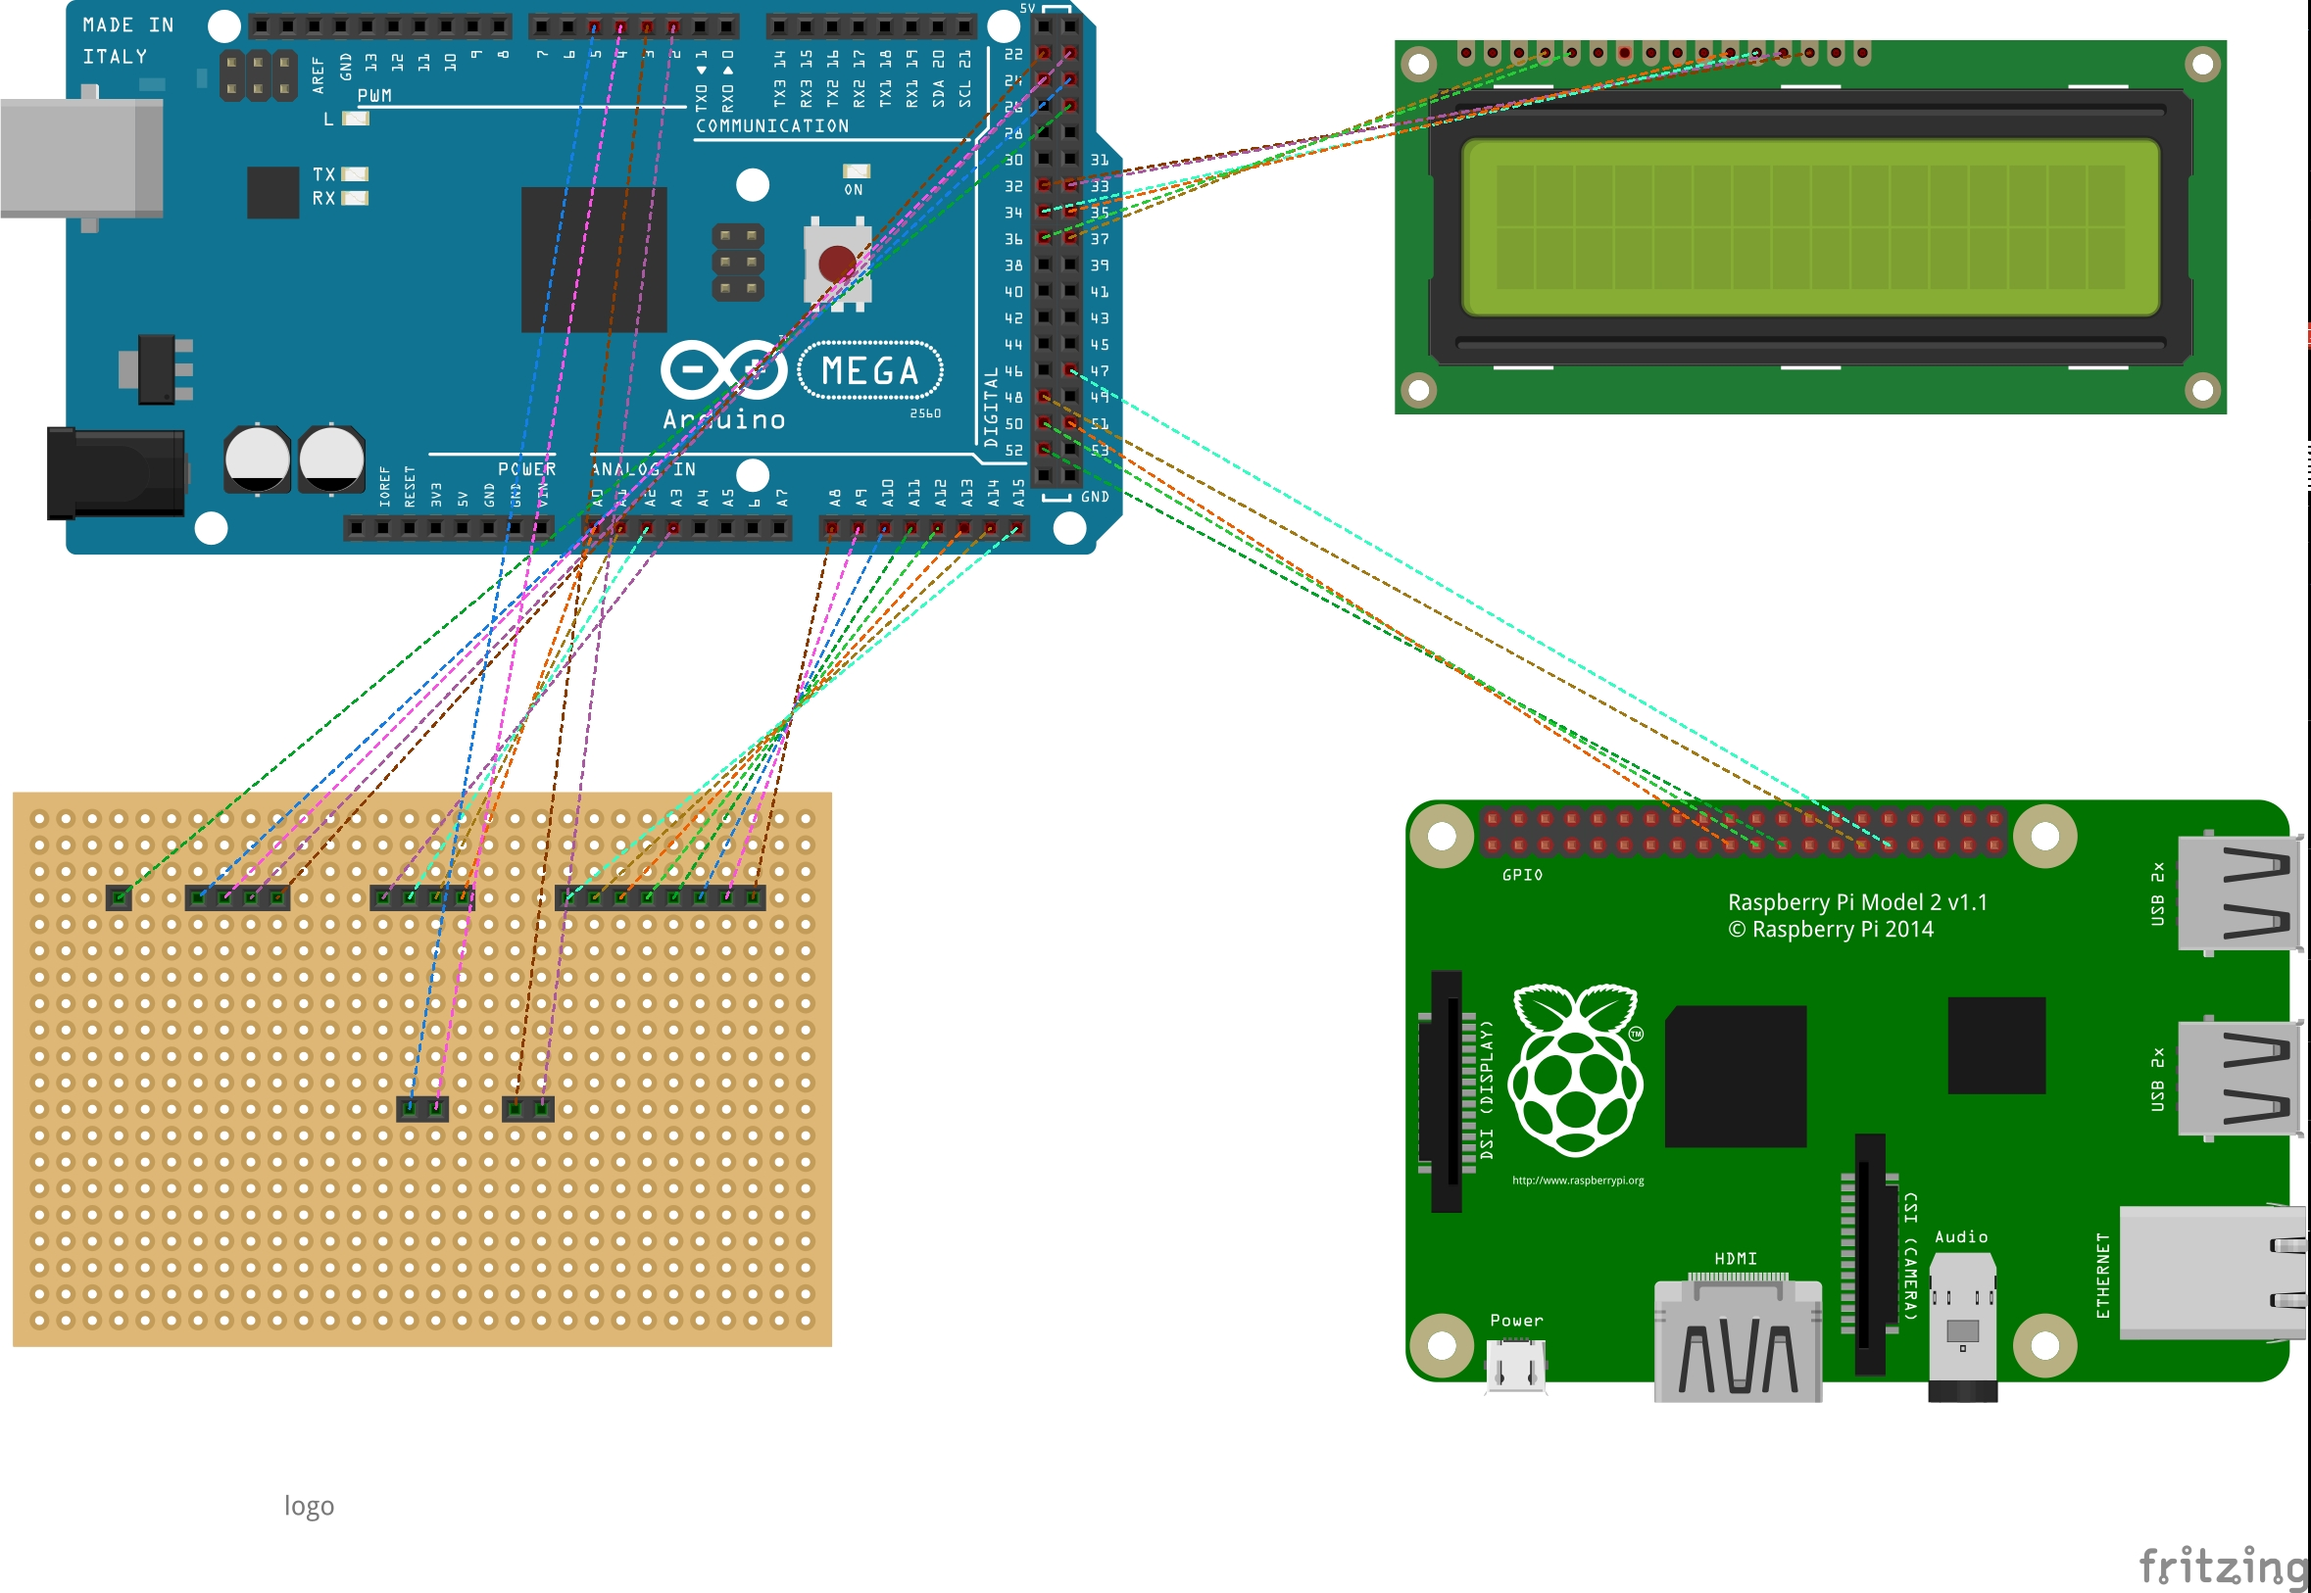
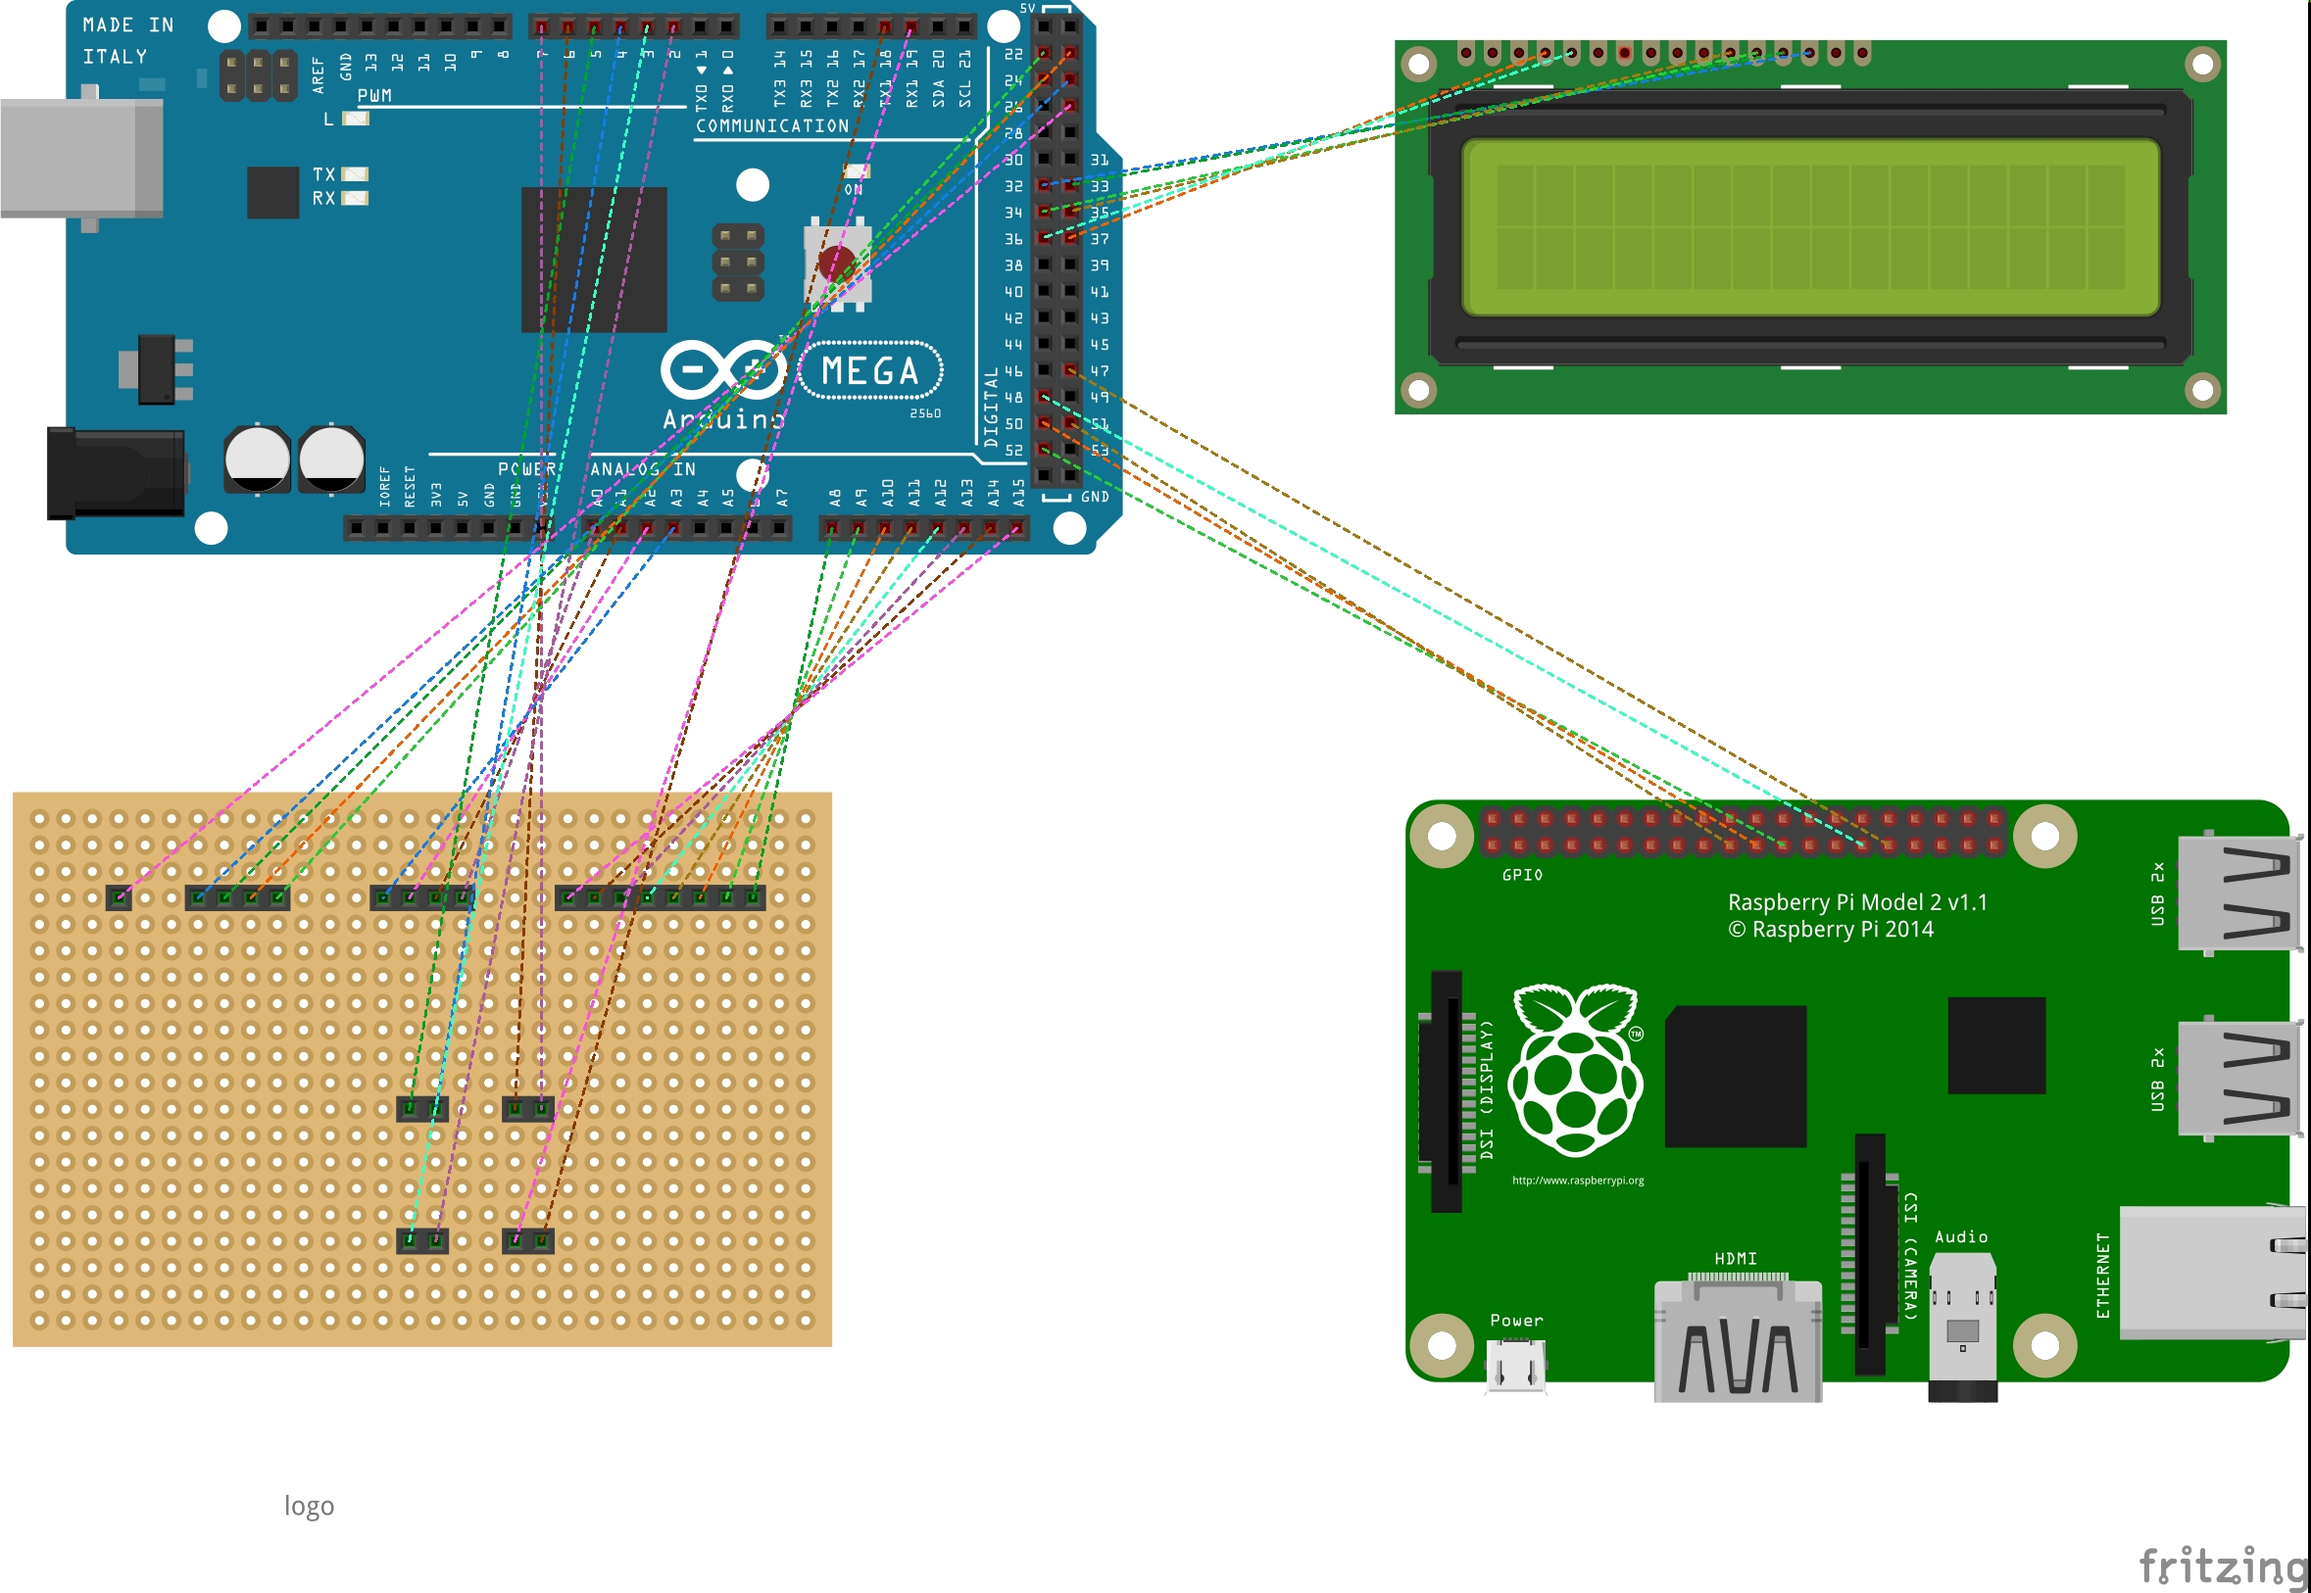
Fix: add encoder inputs

diff --git a/Arduino/Rover/HSI.h b/Arduino/Rover/HSI.h
@@ -5,32 +5,32 @@
 // HSI
 ////////////////////////////////////////////////////
 
-#define PIN_PWM_LEFT  (12)
-#define PIN_PWM_RIGHT (13)
+#define PIN_PWM_LEFT  (4)
+#define PIN_PWM_RIGHT (2)
 
-#define PIN_DIR_LEFT  (22)
-#define PIN_DIR_RIGHT (23)
+#define PIN_DIR_LEFT  (5)
+#define PIN_DIR_RIGHT (3)
 
-#define PIN_LINE_NE (A0)
-#define PIN_LINE_EN (A1)
-#define PIN_LINE_ES (A2)
-#define PIN_LINE_SE (A3)
-#define PIN_LINE_SW (A4)
-#define PIN_LINE_WS (A5)
-#define PIN_LINE_WN (A6)
-#define PIN_LINE_NW (A7)
+#define PIN_LINE_NE (A8)
+#define PIN_LINE_EN (A9)
+#define PIN_LINE_ES (A10)
+#define PIN_LINE_SE (A11)
+#define PIN_LINE_SW (A12)
+#define PIN_LINE_WS (A13)
+#define PIN_LINE_WN (A14)
+#define PIN_LINE_NW (A15)
 
-#define PIN_LINE_LIGHT (0) // TODO: select pin for LINE_LIGHT
+#define PIN_LINE_LIGHT (27) // TODO: select pin for LINE_LIGHT
 
-#define PIN_COL_NE (A12) // TODO: check A12-A15 availability
-#define PIN_COL_SE (A13)
-#define PIN_COL_SW (A14)
-#define PIN_COL_NW (A15)
+#define PIN_COL_NE (A0) // TODO: check A12-A15 availability
+#define PIN_COL_SE (A1)
+#define PIN_COL_SW (A2)
+#define PIN_COL_NW (A3)
 
-#define PIN_COL_LIGHT_NE (8)
-#define PIN_COL_LIGHT_SE (9)
-#define PIN_COL_LIGHT_SW (10)
-#define PIN_COL_LIGHT_NW (11)
+#define PIN_COL_LIGHT_NE (22)
+#define PIN_COL_LIGHT_SE (23)
+#define PIN_COL_LIGHT_SW (24)
+#define PIN_COL_LIGHT_NW (25)
 
 
 #define PIN_ENC_LEFT_A   (18) 
@@ -38,8 +38,8 @@
 #define PIN_ENC_RIGHT_A  (2)
 #define PIN_ENC_RIGHT_B  (3)
 
-#define PIN_REQEXC  (0)  // TODO: select pin for Request Exchange        // Input, high whenever PI requests data
-#define PIN_ACKEXC  (0)  // TODO: select pin for Acknowledge Exchange    // Output, high as soon as MEGA ready to send data
+#define PIN_REQEXC  (48) // TODO: select pin for Request Exchange        // Input, high whenever PI requests data
+#define PIN_ACKEXC  (47) // TODO: select pin for Acknowledge Exchange    // Output, high as soon as MEGA ready to send data
 
 #endif
 
